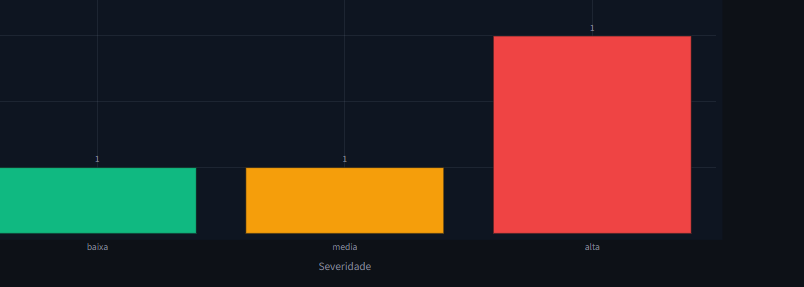
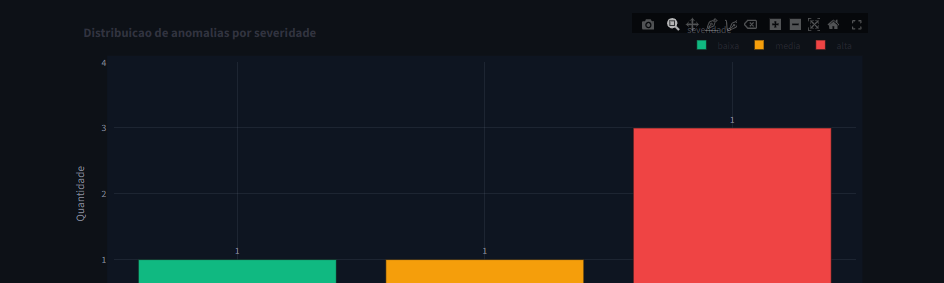
docs(readme): refinar galeria com graficos limpos e separados

diff --git a/README.md b/README.md
@@ -12,15 +12,7 @@ Pipeline automatizado de qualidade, analise e monitoramento de dados para operac
 
 ### Galeria Profissional de Graficos (separados)
 
-#### 1) Score de qualidade
-
-<p align="center">
-	<img src="assets/images/github-chart-score-qualidade.png" alt="Grafico de score de qualidade" width="920" />
-</p>
-
-Leitura: resume a saude geral da base em uma escala executiva de 0 a 100 pontos.
-
-#### 2) Tendencia executiva
+#### 1) Tendencia executiva
 
 <p align="center">
 	<img src="assets/images/github-chart-tendencia-id.png" alt="Grafico de tendencia executiva" width="920" />
@@ -28,7 +20,7 @@ Leitura: resume a saude geral da base em uma escala executiva de 0 a 100 pontos.
 
 Leitura: mostra evolucao da metrica ao longo dos registros e a media movel para leitura de padrao.
 
-#### 3) Distribuicao da metrica
+#### 2) Distribuicao da metrica
 
 <p align="center">
 	<img src="assets/images/github-chart-distribuicao-id.png" alt="Grafico de distribuicao da metrica" width="920" />
@@ -36,7 +28,7 @@ Leitura: mostra evolucao da metrica ao longo dos registros e a media movel para 
 
 Leitura: evidencia frequencia, dispersao e possiveis concentracoes de valores.
 
-#### 4) Severidade das anomalias
+#### 3) Severidade das anomalias
 
 <p align="center">
 	<img src="assets/images/github-chart-anomalias-severidade.png" alt="Grafico de severidade das anomalias" width="920" />
@@ -44,7 +36,7 @@ Leitura: evidencia frequencia, dispersao e possiveis concentracoes de valores.
 
 Leitura: prioriza riscos por nivel de impacto (baixa, media e alta).
 
-#### 5) Criticidade de nulos por coluna
+#### 4) Criticidade de nulos por coluna
 
 <p align="center">
 	<img src="assets/images/github-chart-nulos-criticidade.png" alt="Grafico de criticidade de nulos por coluna" width="920" />
